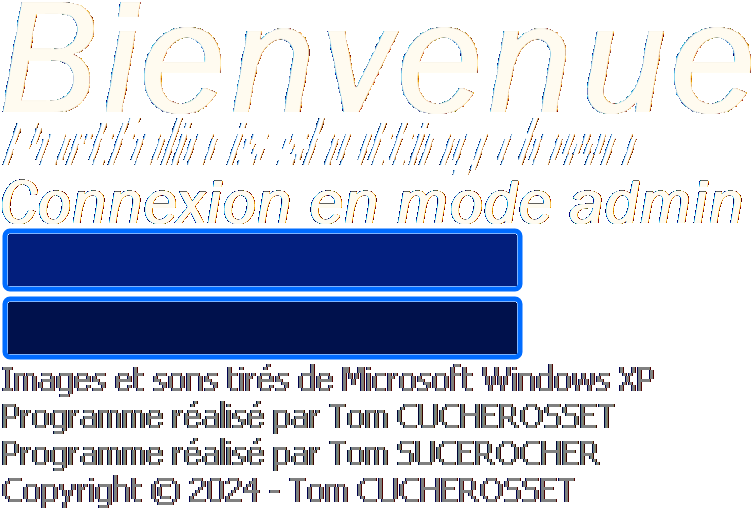
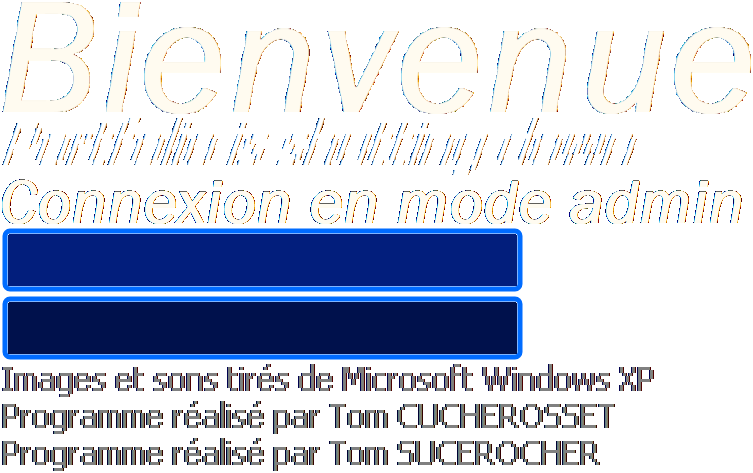
Retrait du texte image "Copyright" et remplacement pour un objet string

diff --git a/index.html b/index.html
@@ -2,50 +2,43 @@
 <html lang="en">
 
 <style type="text/css">
-    h1 {
-        font-family: Arial, Helvetica, sans-serif;
-        color: #F00;
-        font-size: x-large;
-    }
-
-    p {
-        font-family: Arial, Helvetica, sans-serif;
-        color: #000;
-        font-size: small;
-    }
-
-    body {
-        background-color: #FFF;
-        text-align: center;
-        margin: 0;
-        padding: 0;
-    }
-
-    #bloctxt {
-        border-left-width: 5px;
-        border-left-style: solid;
-        border-left-color: #F00;
-        padding-left: 10px;
-        position: absolute;
-        left: 50%;
-        width: 600px;
-        margin-left: -260px
-    }
-
+  h1 {
+	  font-family: Arial, Helvetica, sans-serif;
+	  color: #F00;
+	  font-size: x-large;
+  }
+  p {
+	  font-family: Arial, Helvetica, sans-serif;
+	  color: #000;
+	  font-size: small;
+  }
+  body {
+	  background-color: #FFF;
+      text-align: center;
+      margin: 0;
+      padding: 0;
+  }
+  #bloctxt {
+	  border-left-width: 5px;
+	  border-left-style: solid;
+	  border-left-color: #F00;
+	  padding-left: 10px;
+	  position: absolute;
+	  left: 50%%;
+	  width: 600px;
+	  margin-left: -260px
+  }
 </style>
 <head>
-    <!-- Lien pour les web fonts -->
-    <link href="src/Webfonts/fonts.css" rel="stylesheet" />
-    <link rel='icon' href='icon.ico' type='image/x-icon'/>
-    <meta http-equiv="Content-Type" content="text/html; charset=UTF-8"/>
+  <meta http-equiv="Content-Type" content="text/html; charset=UTF-8"/>
 
-    <!-- Autorise le plein écran sur les mobiles iOS -->
-    <meta name="viewport" content="initial-scale=1.0, maximum-scale=1.0, minimum-scale=1.0, user-scalable=no, target-densitydpi=device-dpi" />
-    <meta name="apple-mobile-web-app-capable" content="yes" />
-    <meta name="apple-mobile-web-app-status-bar-style" content="black" />
-    <meta name="HandheldFriendly" content="true" />
+  <!-- Autorise le plein écran sur les mobiles iOS -->
+  <meta name="viewport" content="initial-scale=1.0, maximum-scale=1.0, minimum-scale=1.0, user-scalable=no, target-densitydpi=device-dpi" />
+  <meta name="apple-mobile-web-app-capable" content="yes" />
+  <meta name="apple-mobile-web-app-status-bar-style" content="black" />
+  <meta name="HandheldFriendly" content="true" />
 
-    <title>PortInkFolio (ver. Dev)</title>
+  <title>Clickteam Fusion Developer 2.5+ HTML5 Runtime</title>
 
 	<script>
 	   	// Detection des ancien navigateurs qui ne supportent pas l'element Canvas
